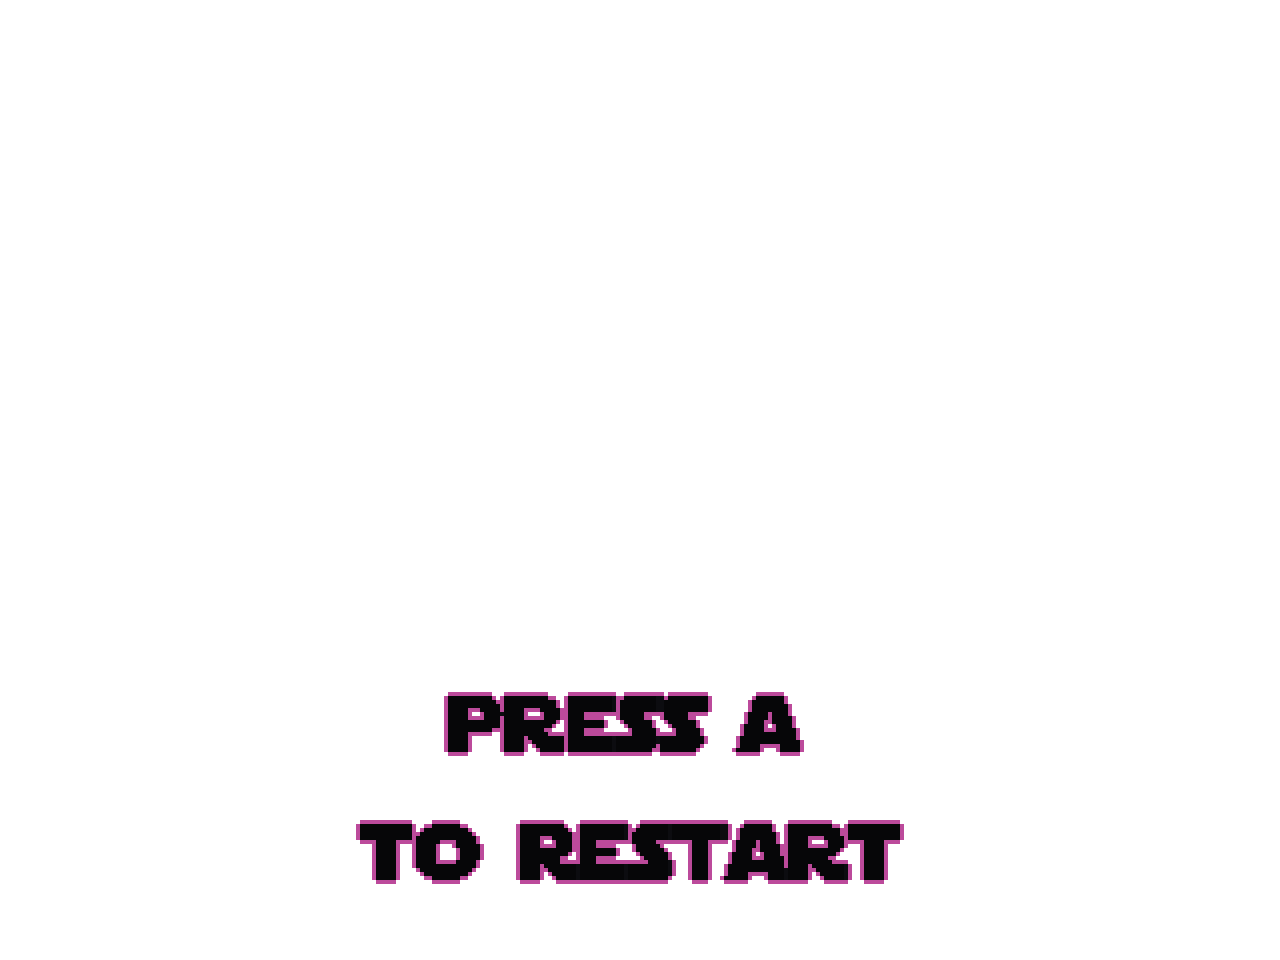
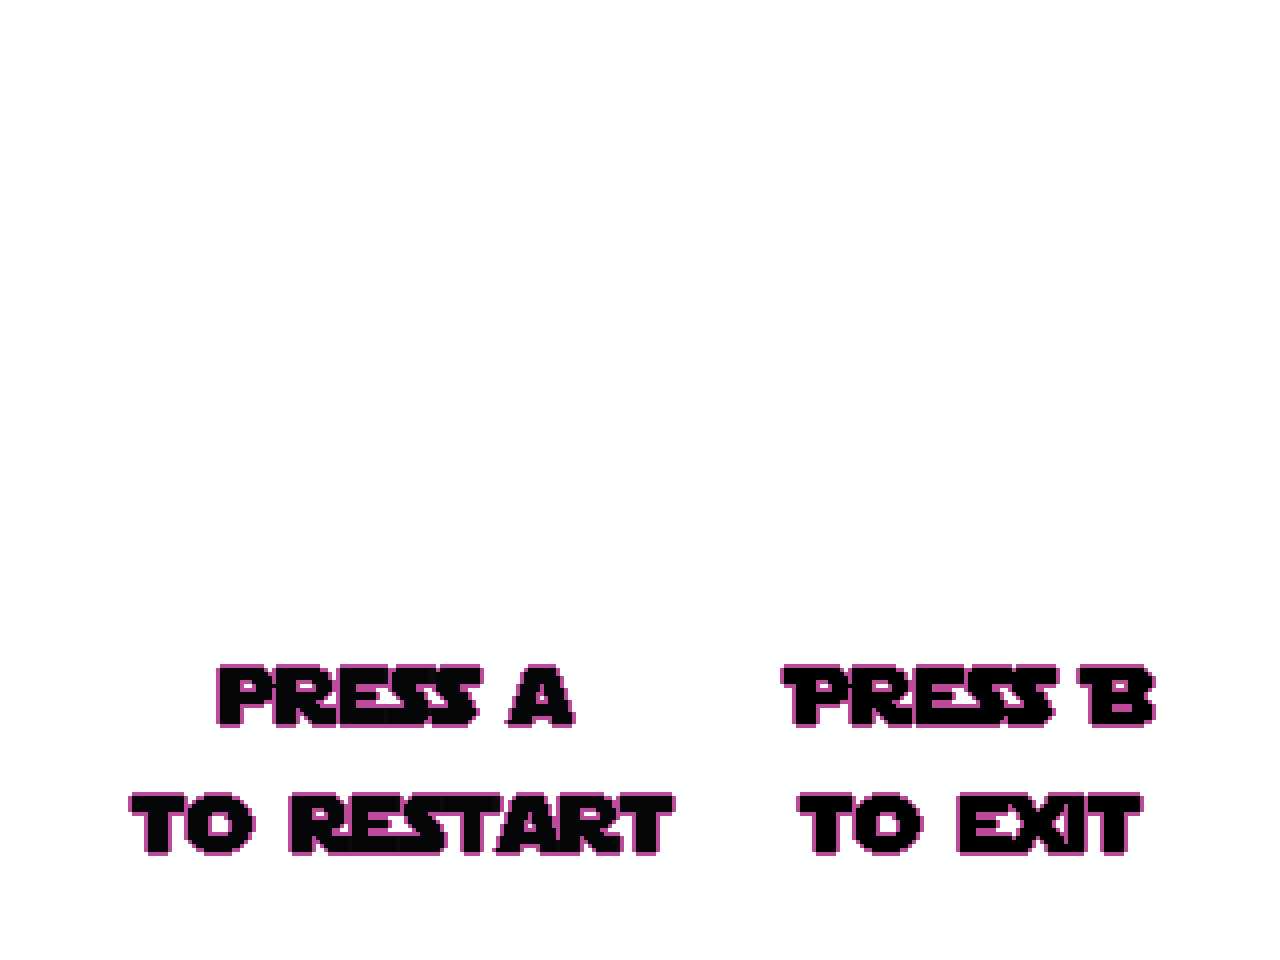
Adjusted PressA.png and made it so that it's used by gameover.py

Changed region(s): [[0.0938, 0.6875, 0.9062, 0.9375]]

diff --git a/scripts/gameover.py b/scripts/gameover.py
@@ -47,7 +47,7 @@ class GameOver:
                     sys.exit()
         self.image_game_over = pygame.image.load(self.path_game_over)
         self.image_score = pygame.image.load(self.path_score)
-        self.image_press_space = pygame.image.load(self.path_press_space)
+        self.image_press_space = pygame.image.load(self.path_press_a)
         self.image_press_a = pygame.image.load(self.path_press_a)
         self.rect = self.image_game_over.get_rect()
         self.game_over = False
